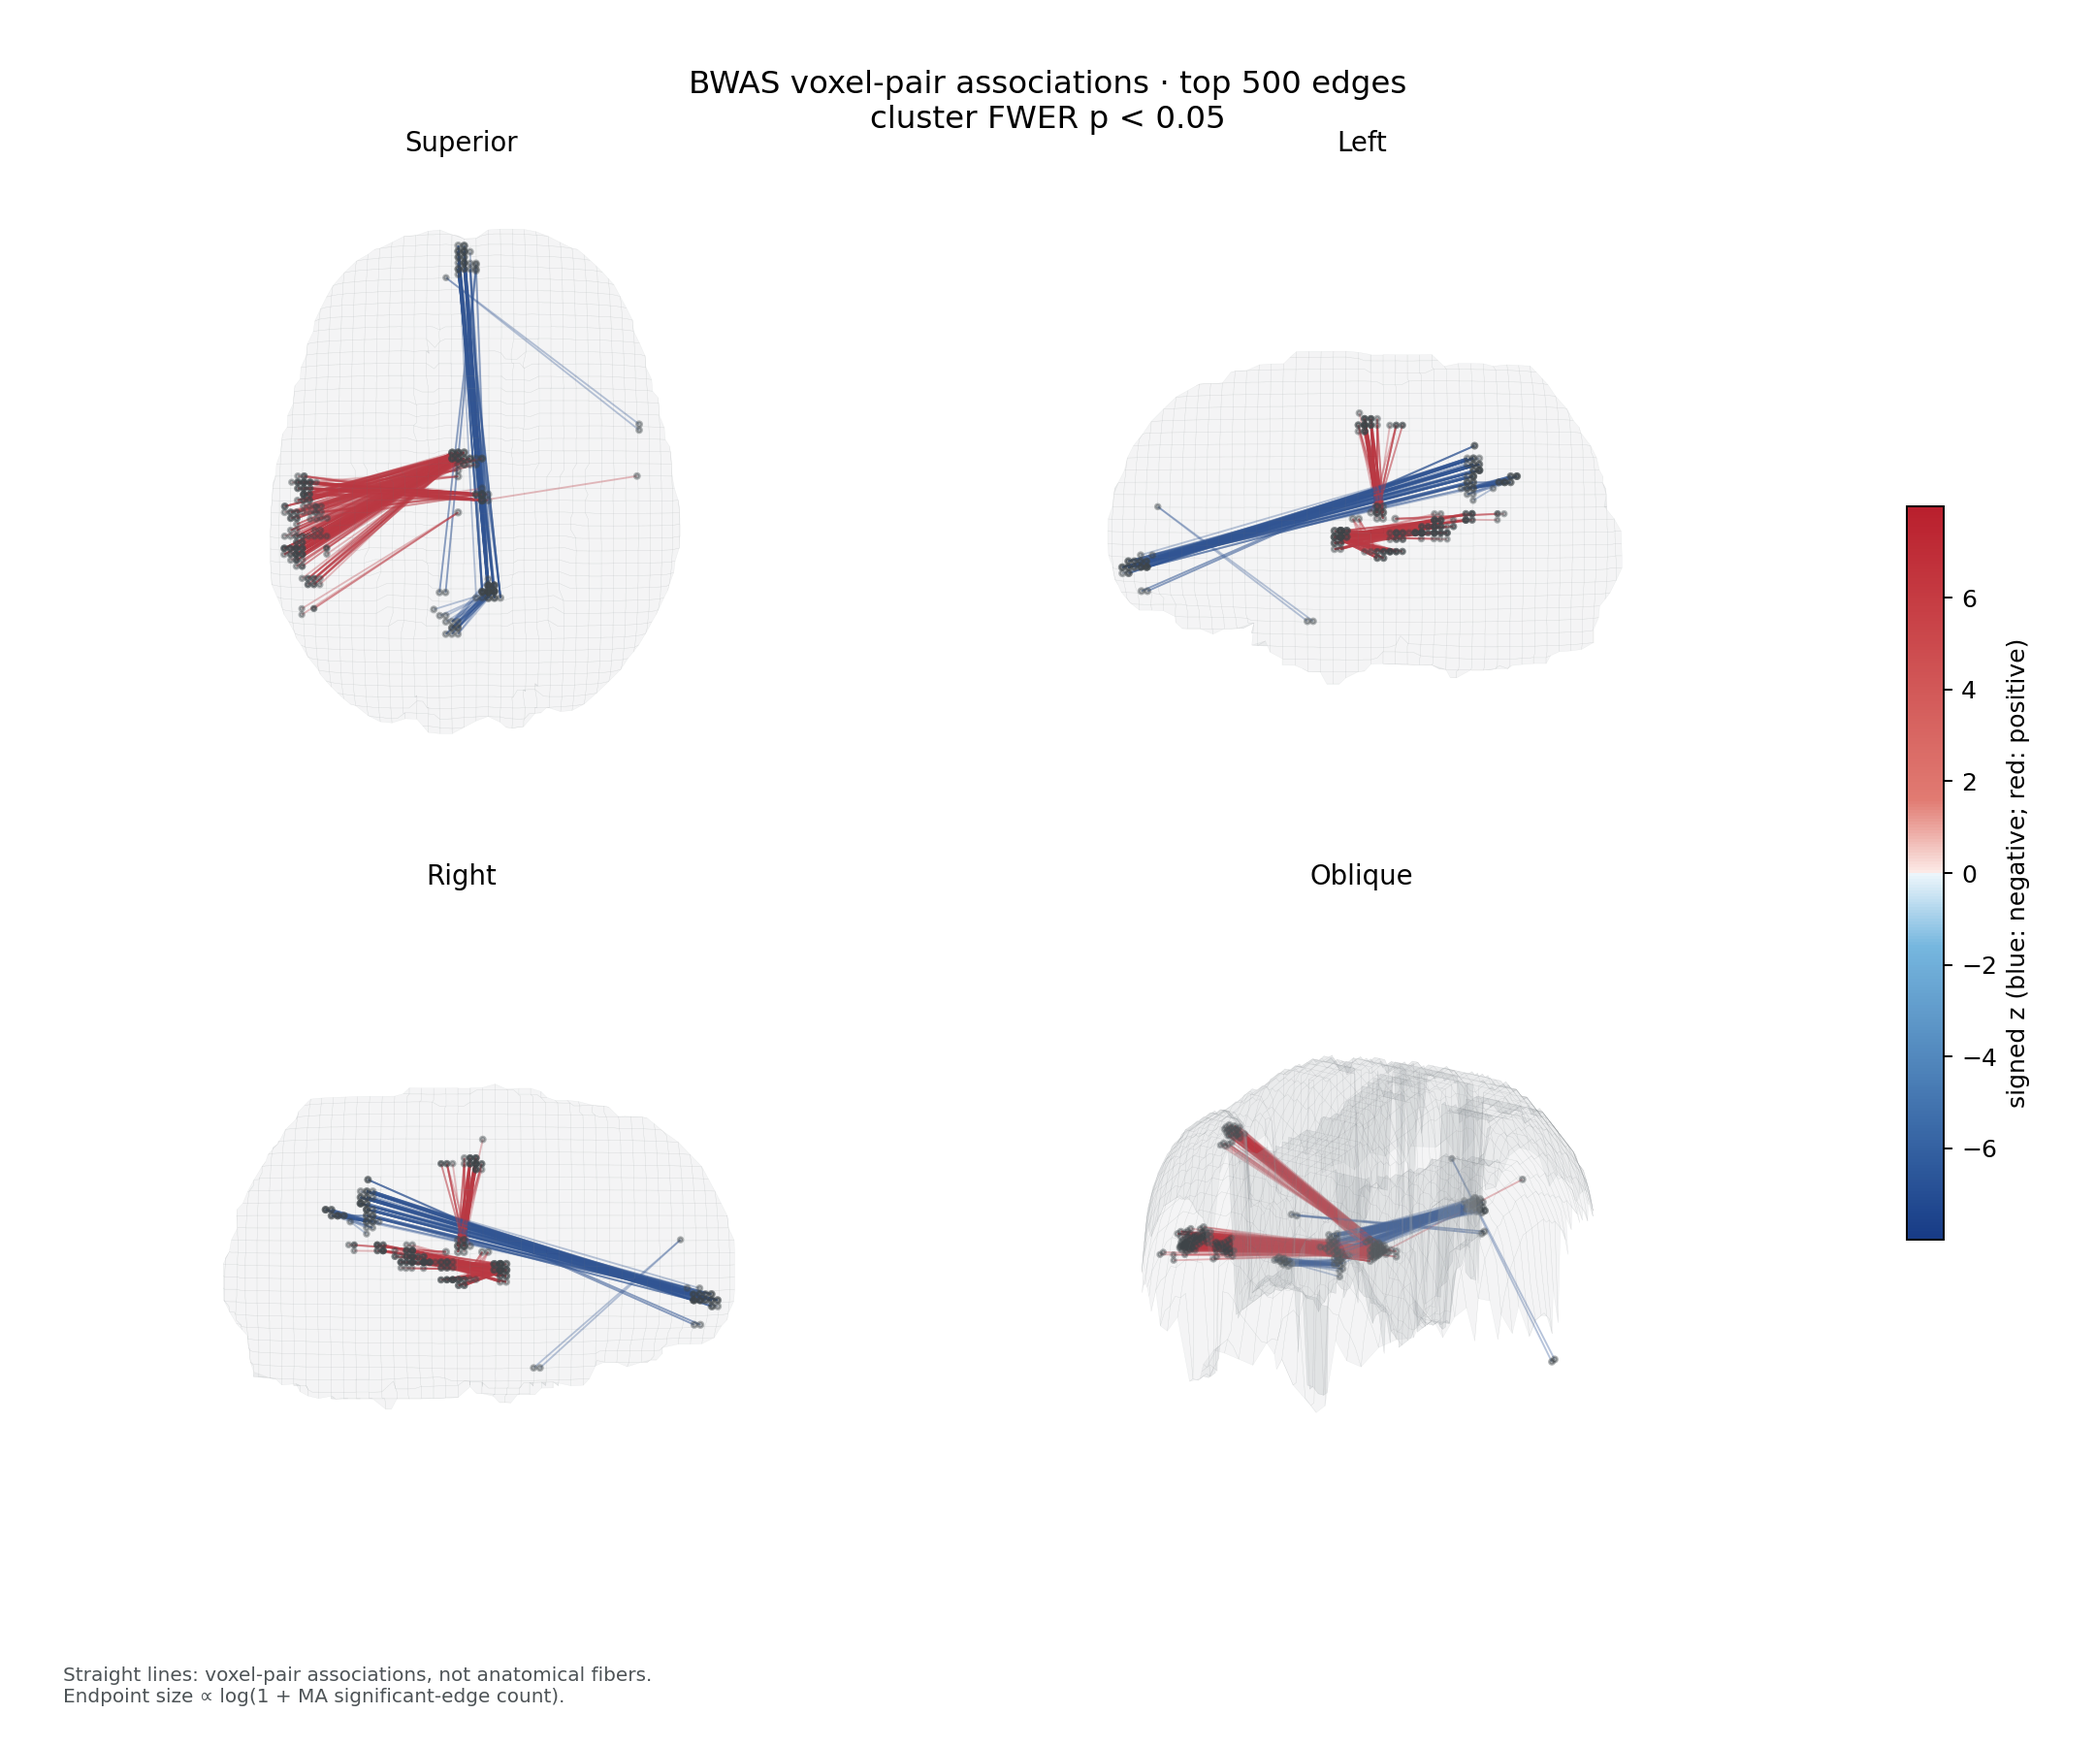
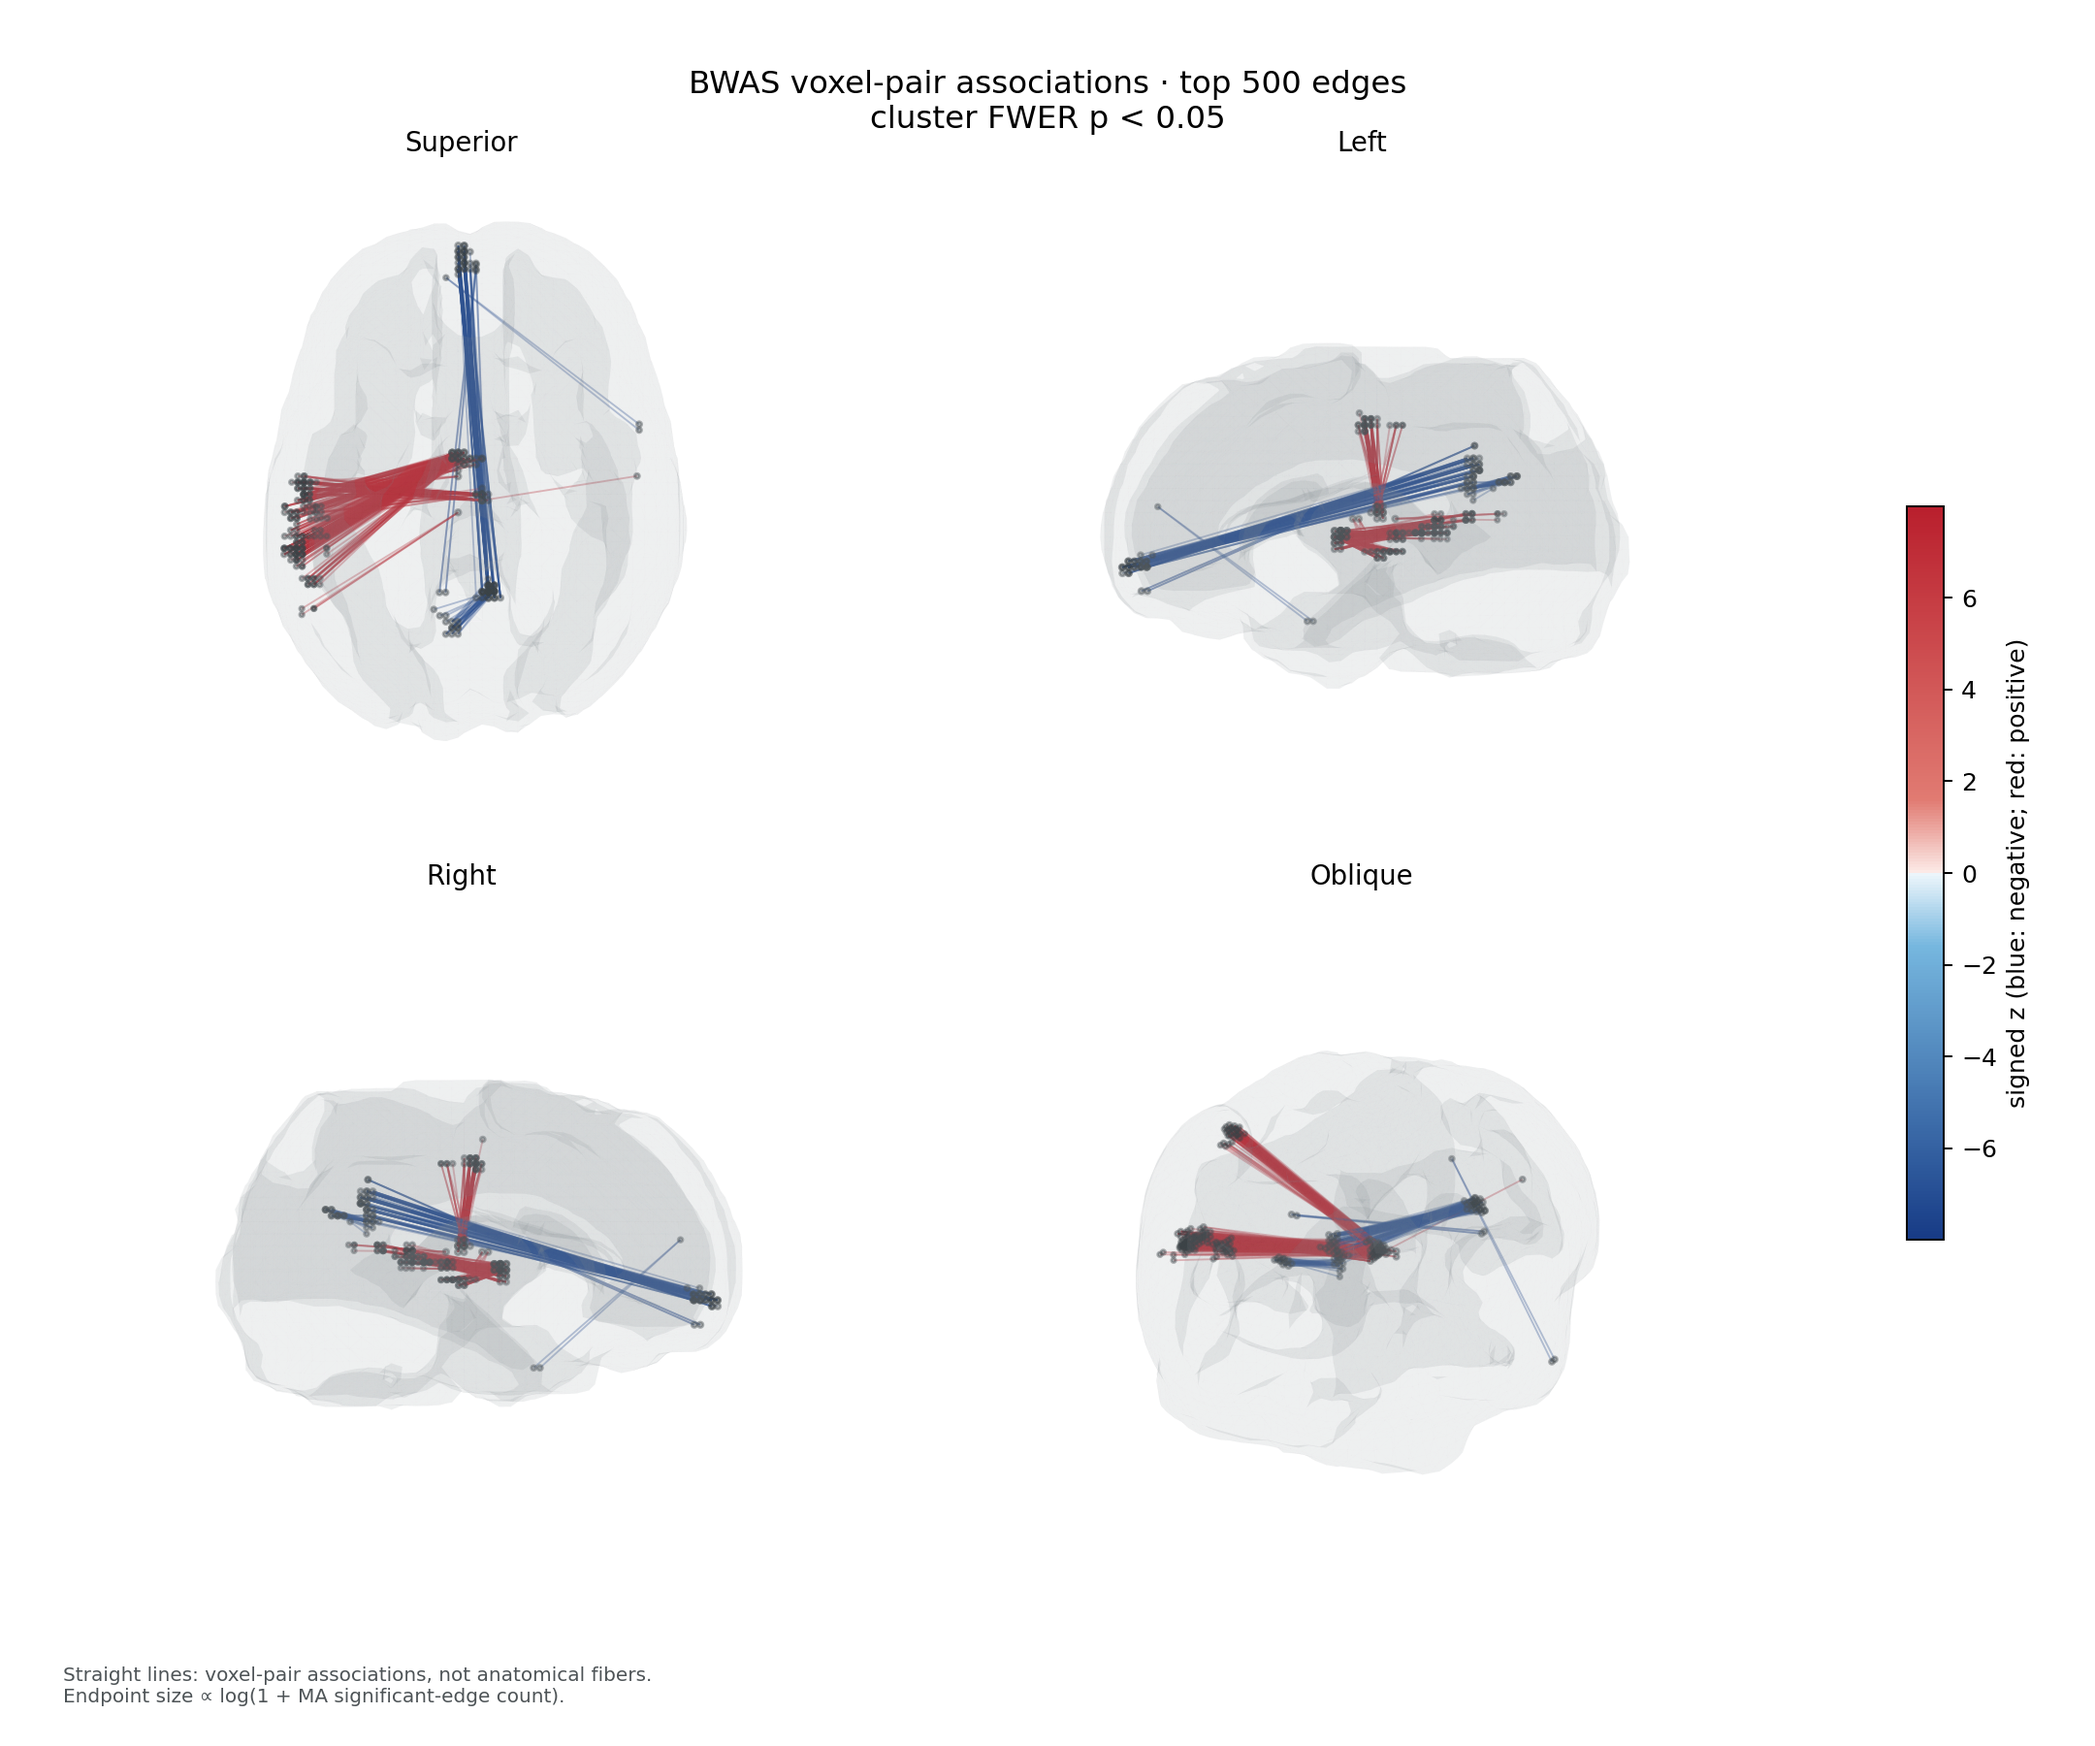
Render BWAS connectivity on CPU isosurface instead of grid

diff --git a/src/fnit/bwas/visualize.py b/src/fnit/bwas/visualize.py
@@ -13,7 +13,9 @@ from matplotlib.backends.backend_agg import FigureCanvasAgg
 from matplotlib.colors import LinearSegmentedColormap, TwoSlopeNorm
 from matplotlib.figure import Figure
 from matplotlib.cm import ScalarMappable
-from mpl_toolkits.mplot3d.art3d import Line3DCollection
+from mpl_toolkits.mplot3d.art3d import Line3DCollection, Poly3DCollection
+from scipy.ndimage import gaussian_filter
+from skimage.measure import marching_cubes
 
 
 _EDGE_SUFFIX = "_desc-BWASedges_relmat.tsv.gz"
@@ -82,26 +84,17 @@ def _top_edges(path: Path, clusters: set[int], top_k: int,
     return [(item[2], item[3], item[4]) for item in sorted(heap, reverse=True)]
 
 
-def _draw_gray_matter(ax, mask: np.ndarray, affine: np.ndarray,
-                      depth_axis: int, near_side: str) -> None:
-    other = [axis for axis in range(3) if axis != depth_axis]
-    positions = [affine[axis, axis] * np.arange(mask.shape[axis]) + affine[axis, 3]
-                 for axis in range(3)]
-    axis_indices = np.arange(mask.shape[depth_axis]).reshape(
-        [mask.shape[depth_axis] if axis == depth_axis else 1 for axis in range(3)])
-    if near_side == "min":
-        shell = np.where(mask, axis_indices, mask.shape[depth_axis]).min(axis=depth_axis)
-        valid = shell < mask.shape[depth_axis]
-    else:
-        shell = np.where(mask, axis_indices, -1).max(axis=depth_axis)
-        valid = shell >= 0
-    first, second = np.meshgrid(positions[other[0]], positions[other[1]], indexing="ij")
-    surface = [None, None, None]
-    surface[other[0]], surface[other[1]] = first, second
-    surface[depth_axis] = positions[depth_axis][np.clip(shell, 0, mask.shape[depth_axis] - 1)]
-    surface = [np.where(valid, plane, np.nan) for plane in surface]
-    ax.plot_surface(*surface, rstride=2, cstride=2, color="#a5aaae",
-                    alpha=0.12, linewidth=0.15, edgecolor="#737a7e", shade=False)
+def _gray_matter_surface(mask: np.ndarray, affine: np.ndarray) -> np.ndarray:
+    """Build a translucent closed mesh from the supplied analysis mask on CPU."""
+    smooth = gaussian_filter(np.pad(mask.astype(np.float32), 1), sigma=1.0)
+    vertices, faces, _, _ = marching_cubes(smooth, level=0.25, step_size=2)
+    return nib.affines.apply_affine(affine, vertices - 1)[faces]
+
+
+def _draw_gray_matter(ax, triangles: np.ndarray) -> None:
+    ax.add_collection3d(Poly3DCollection(
+        triangles, linewidths=0, facecolors=(0.55, 0.58, 0.60, 0.07),
+        edgecolors="none", zsort="average"))
 
 
 def plot_bwas_connectivity(
@@ -128,10 +121,8 @@ def plot_bwas_connectivity(
         raise ValueError("cluster_p_max must be in (0, 1]")
     if min_abs_z is not None and (not np.isfinite(min_abs_z) or min_abs_z < 0):
         raise ValueError("min_abs_z must be finite and nonnegative")
-    views = {"superior": (90, -90, 2, "max"),
-             "left": (0, 180, 0, "min"), "right": (0, 0, 0, "max"),
-             "anterior": (0, 90, 1, "max"),
-             "oblique": (25, -60, 2, "max")}
+    views = {"superior": (90, -90), "left": (0, 180), "right": (0, 0),
+             "anterior": (0, 90), "oblique": (25, -60)}
     if view != "montage" and view not in views:
         raise ValueError(f"view must be montage or one of {', '.join(views)}")
     output_png = Path(output_png).expanduser().resolve()
@@ -171,6 +162,7 @@ def plot_bwas_connectivity(
                        np.diag(np.diag(canonical.affine[:3, :3])), atol=1e-3):
         raise ValueError("gray-matter mask must have axes aligned to MNI coordinates")
     display_mask = np.asarray(canonical.dataobj) != 0
+    surface_triangles = _gray_matter_surface(display_mask, canonical.affine)
     panel_views = ("superior", "left", "right", "oblique") if view == "montage" else (view,)
     figure = Figure(figsize=(12, 10) if view == "montage" else (8, 8),
                     dpi=180, facecolor="white")
@@ -206,8 +198,8 @@ def plot_bwas_connectivity(
         else:
             bounds = (0.01, 0.08, 0.86, 0.84)
         ax = figure.add_axes(bounds, projection="3d")
-        elevation, azimuth, depth_axis, near_side = views[panel_view]
-        _draw_gray_matter(ax, display_mask, canonical.affine, depth_axis, near_side)
+        elevation, azimuth = views[panel_view]
+        _draw_gray_matter(ax, surface_triangles)
         if edges:
             ax.add_collection3d(Line3DCollection(
                 world, colors=colors, linewidths=0.25 + 0.55 * strength, zorder=10))

diff --git a/docs/bwas/README.md b/docs/bwas/README.md
@@ -146,7 +146,9 @@ python BWAS_main.py -toolbox_dir /path/to/BWAS \
 
 ## 绘制灰质体素连接
 
-`plot_bwas_connectivity` 自动读取一个 BWAS 结果目录里的连接表、簇表和 MA 图，流式扫描连接表，只保留满足簇水平 p 值条件且 `|z|` 最大的少量边，生成 PNG。灰色线框表示输入灰质掩膜；端点大小参考 MA 边数。连接线是**体素对的群体统计关联**，不是解剖纤维束。正 z 为红色系、负 z 为蓝色系，参考 [FSLeyes 的 Red 与 Blue 配色名称](https://github.com/pauldmccarthy/fsleyes/blob/main/fsleyes/assets/colourmaps/order.txt)；这是独立配色，不复制 FSL 色表。绘图只使用 CPU，不需要 CUDA，也不调用 FSL。
+`plot_bwas_connectivity` 自动读取一个 BWAS 结果目录里的连接表、簇表和 MA 图，流式扫描连接表，只保留满足簇水平 p 值条件且 `|z|` 最大的少量边，生成 PNG。它从输入灰质掩膜提取平滑的半透明三角网格，避免原先规则网格的方格背景；端点大小参考 MA 边数。连接线是**体素对的群体统计关联**，不是解剖纤维束。正 z 为红色系、负 z 为蓝色系，参考 [FSLeyes 的 Red 与 Blue 配色名称](https://github.com/pauldmccarthy/fsleyes/blob/main/fsleyes/assets/colourmaps/order.txt)；这是独立配色，不复制 FSL 色表。绘图只使用 CPU，不需要 CUDA，也不调用 FSL。
+
+原版 BWAS 将正负连接分别导出为两端坐标加统计值的七列文本，供 [BrainGL](https://github.com/rschurade/braingl) 显示；BrainGL 使用体积等值面和图形渲染。FNIT 独立实现了 CPU 等值面绘图，没有移植其 C++/OpenGL 程序，也没有复制原版 `braingl_bg.nii.gz`。本图的外形来自 2 mm 灰质分析掩膜，不能表现 1 mm 解剖背景的全部脑沟细节。
 
 ```python
 from pathlib import Path
@@ -159,7 +161,7 @@ output_png = (bwas_output_root / "group" / "figures" /
 
 figure_path = plot_bwas_connectivity(
     bwas_output_root=bwas_output_root,  # 自动寻找该目录中唯一一组 BWAS 结果文件
-    gray_matter_mask_file=gray_matter_mask_file,  # 2 mm 灰质轮廓与体素坐标参考
+    gray_matter_mask_file=gray_matter_mask_file,  # 2 mm 灰质表面与体素坐标参考
     output_png=output_png,  # 写出 PNG；已存在时不覆盖
     top_k=500,  # 最多显示 |z| 最大的 500 条边，不影响原统计结果
     cluster_p_max=0.05,  # 只显示簇水平 FWER p < 0.05 的连接
@@ -195,7 +197,8 @@ print(figure_path)
 
 ## 来源
 
[2 lines of base64/hex data omitted]
 - Gong W, et al. [Statistical testing and power analysis for brain-wide association study](https://doi.org/10.1016/j.media.2018.03.014). *Medical Image Analysis* 47 (2018): 15–30.
+- [BrainGL 源码](https://github.com/rschurade/braingl)与 [Connexel visualization 论文](https://doi.org/10.3389/fnins.2014.00015)：仅参考等值面视觉设计，没有纳入 FNIT 运行时。
 - [ABIDE II 表型变量释义](https://fcon_1000.projects.nitrc.org/indi/abide/ABIDEII_Data_Legend.pdf)。
 - [ABIDE I 官方表型表](https://s3.amazonaws.com/fcp-indi/data/Projects/ABIDE_Initiative/Phenotypic_V1_0b_preprocessed1.csv)和[ABIDE II 官方表型表](https://fcon_1000.projects.nitrc.org/indi/abide2/release/phenotypic_data/ABIDEII_Composite_Phenotypic.csv)。
